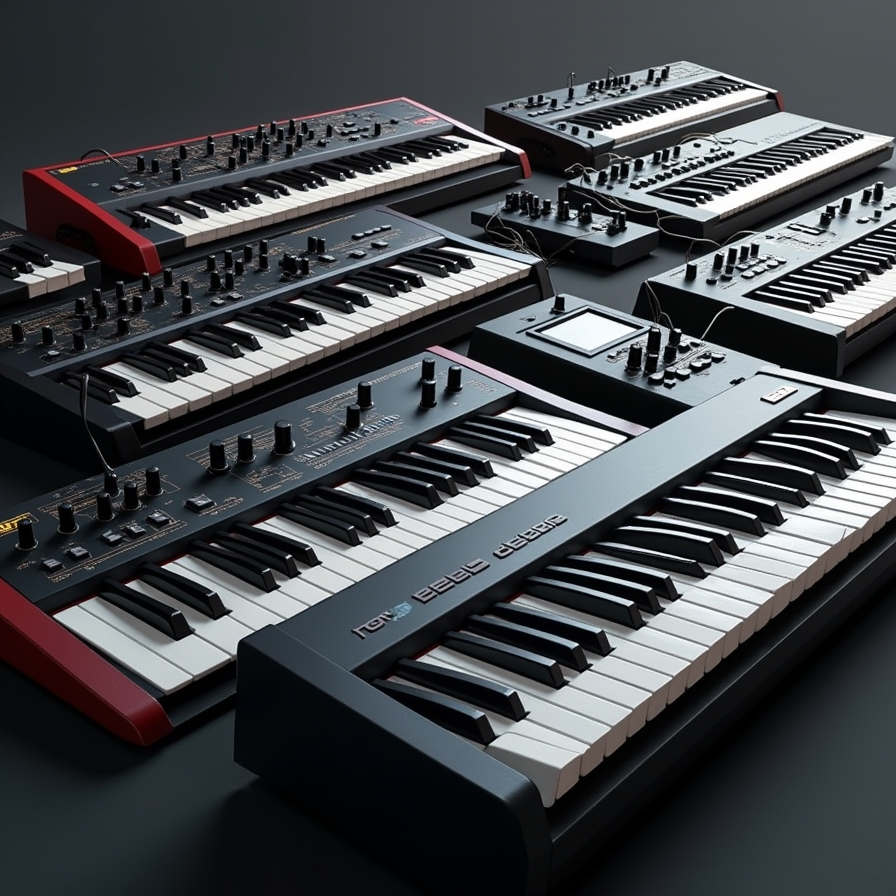
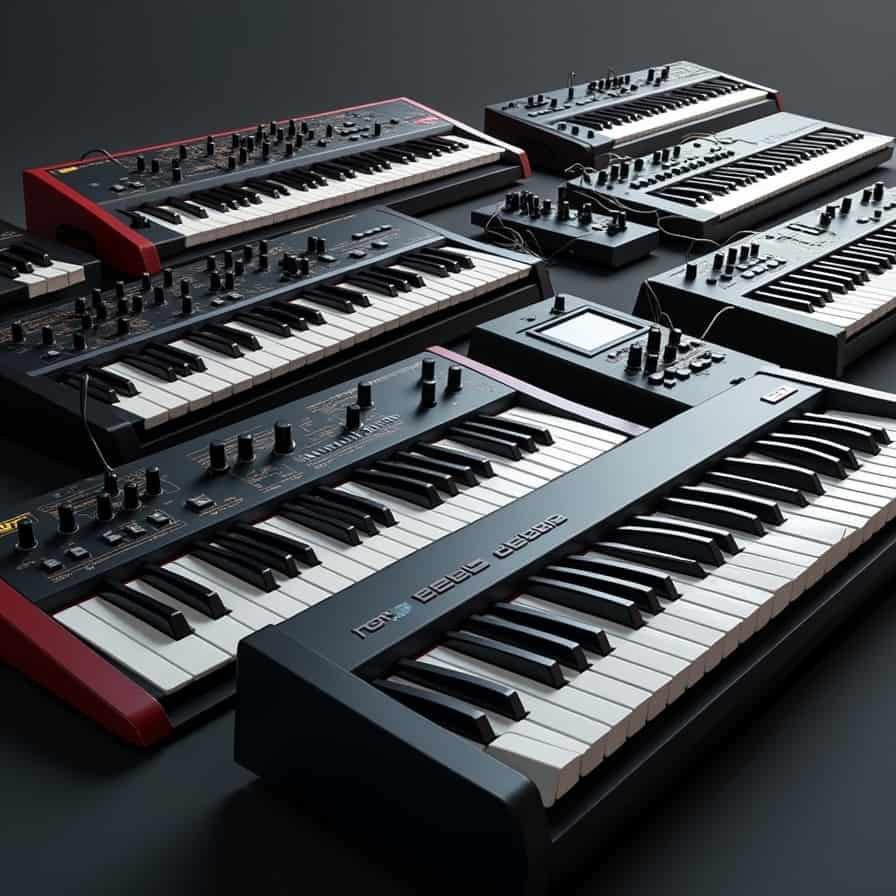
reducido tamaño imágenes muy grandes

diff --git a/src/css/header.css b/src/css/header.css
@@ -8,7 +8,7 @@
 ========================= */
 
 .header {
-  background-image: url("../assets/images/imagen1.png");
+  background-image: url("../assets/images/imagen1.jpg");
   background-size: cover;
   background-position: center;
   position: relative;
@@ -325,7 +325,7 @@
   .greeting {
     display: none;
   }
- 
+
   /* Tamaño de los icono carrito */
   .cart-link i {
     font-size: 1.7rem !important; /* Tamaño grande y consistente */
@@ -401,7 +401,7 @@
 
 /* Estilos mejorados para el botón de Iniciar Sesión */
 .login-button {
- background-color: transparent;
+  background-color: transparent;
   color: #222;
   border: 2px solid #e89229;
   border-radius: 8px;

diff --git a/src/pages/index.html b/src/pages/index.html
@@ -90,7 +90,7 @@
             <img src="../assets/images/mesa1.png" alt="Mesa de mezcla" />
           </div>
           <div role="listitem" class="product-item" aria-hidden="true">
-            <img src="../assets/images/imagen4.png" alt="Imagen tienda" />
+            <img src="../assets/images/imagen4.jpg" alt="Imagen tienda" />
           </div>
         </div>
       </section>
